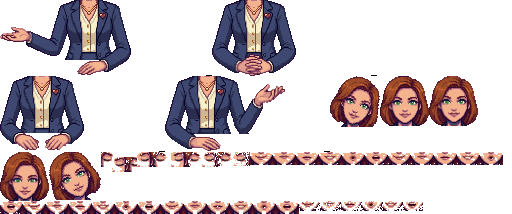
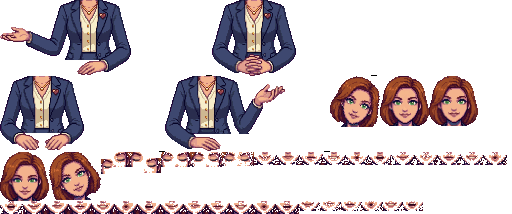
Seated heads: register eyes and mouth by shifting the head over the master, so mouths stay on the face on nodded and tilted heads (#78)

Changed region(s): [[0.1875, 0.7009, 1.0, 0.8131], [0.0, 0.9252, 0.5938, 1.0]]

diff --git a/site/spike-lib/compose.js b/site/spike-lib/compose.js
@@ -18,6 +18,7 @@ export function buildPresenter(cfg, G, ref = G) {
     if (!ref[n]) continue;
     if (s.mode === 'patch') {
       if (fc.register === 'iris') off[n] = headOffsets(ref[P.base], ref[n], ref[P.registerMouth]);
+      else if (fc.register === 'shift') { const B = P.boxes, fit = (box, m) => shiftFit(ref[P.base], ref[n], [box[0] - m, box[1] - m, box[2] + m, box[3] + m]); off[n] = { eyeL: fit(B.EBL, 3), eyeR: fit(B.EBR, 3), mouth: fit(B.MB, 3) }; }
       else { const c = centres(n), c0 = centres(P.base), m = faceOf(n).mouthFit, m0 = faceOf(P.base).mouthFit; off[n] = { eyeL: [Math.round(c[0][0] - c0[0][0]), Math.round(c[0][1] - c0[0][1])], eyeR: [Math.round(c[1][0] - c0[1][0]), Math.round(c[1][1] - c0[1][1])], mouth: [Math.round(m.cx - m0.cx), Math.round(m.yc - m0.yc)] }; }
       if (s.nudge) { const o = off[n], a = s.nudge; off[n] = { eyeL: [o.eyeL[0] + a.eye, o.eyeL[1]], eyeR: [o.eyeR[0] + a.eye, o.eyeR[1]], mouth: [o.mouth[0] + a.mouth, o.mouth[1]] }; }
     }
@@ -71,6 +72,19 @@ export function composePresenter(F, { head = 'b1', pose = 'b1', feet = 'b1', eye
     if (src.has(x, y)) X.set(x, y, src.get(x, y)); else X.d[X.idx(x, y) + 3] = 0;
   }
   return X;
+}
+
+/** The shift [dx, dy] that lays `head` over `base` inside `win` (grid cells): head(x + dx, y + dy) matches base(x, y), by mean luminance difference. For heads that are tilted or nodded a little, where the eye and mouth detectors are not steady. */
+function shiftFit(base, head, win, R = 9) {
+  const lum = c => 0.299 * c[0] + 0.587 * c[1] + 0.114 * c[2];
+  let best = [0, 0], bestE = Infinity;
+  for (let dy = -R; dy <= R; dy++) for (let dx = -R; dx <= R; dx++) {
+    let e = 0, n = 0;
+    for (let y = win[1]; y <= win[3]; y++) for (let x = win[0]; x <= win[2]; x++) { if (!base.has(x, y)) continue; n++; e += head.has(x + dx, y + dy) ? Math.abs(lum(base.get(x, y)) - lum(head.get(x + dx, y + dy))) : 255; }
+    e = n ? e / n + (Math.abs(dx) + Math.abs(dy)) * 0.05 : Infinity;
+    if (e < bestE) { bestE = e; best = [dx, dy]; }
+  }
+  return best;
 }
 
 /** Face of a head that has moved (nods and tilts shift it by several rows): eyes from a wide window, then the mouth window sits about 11 rows below the eyes, perpendicular to the line between them, so it follows a tilt. */
